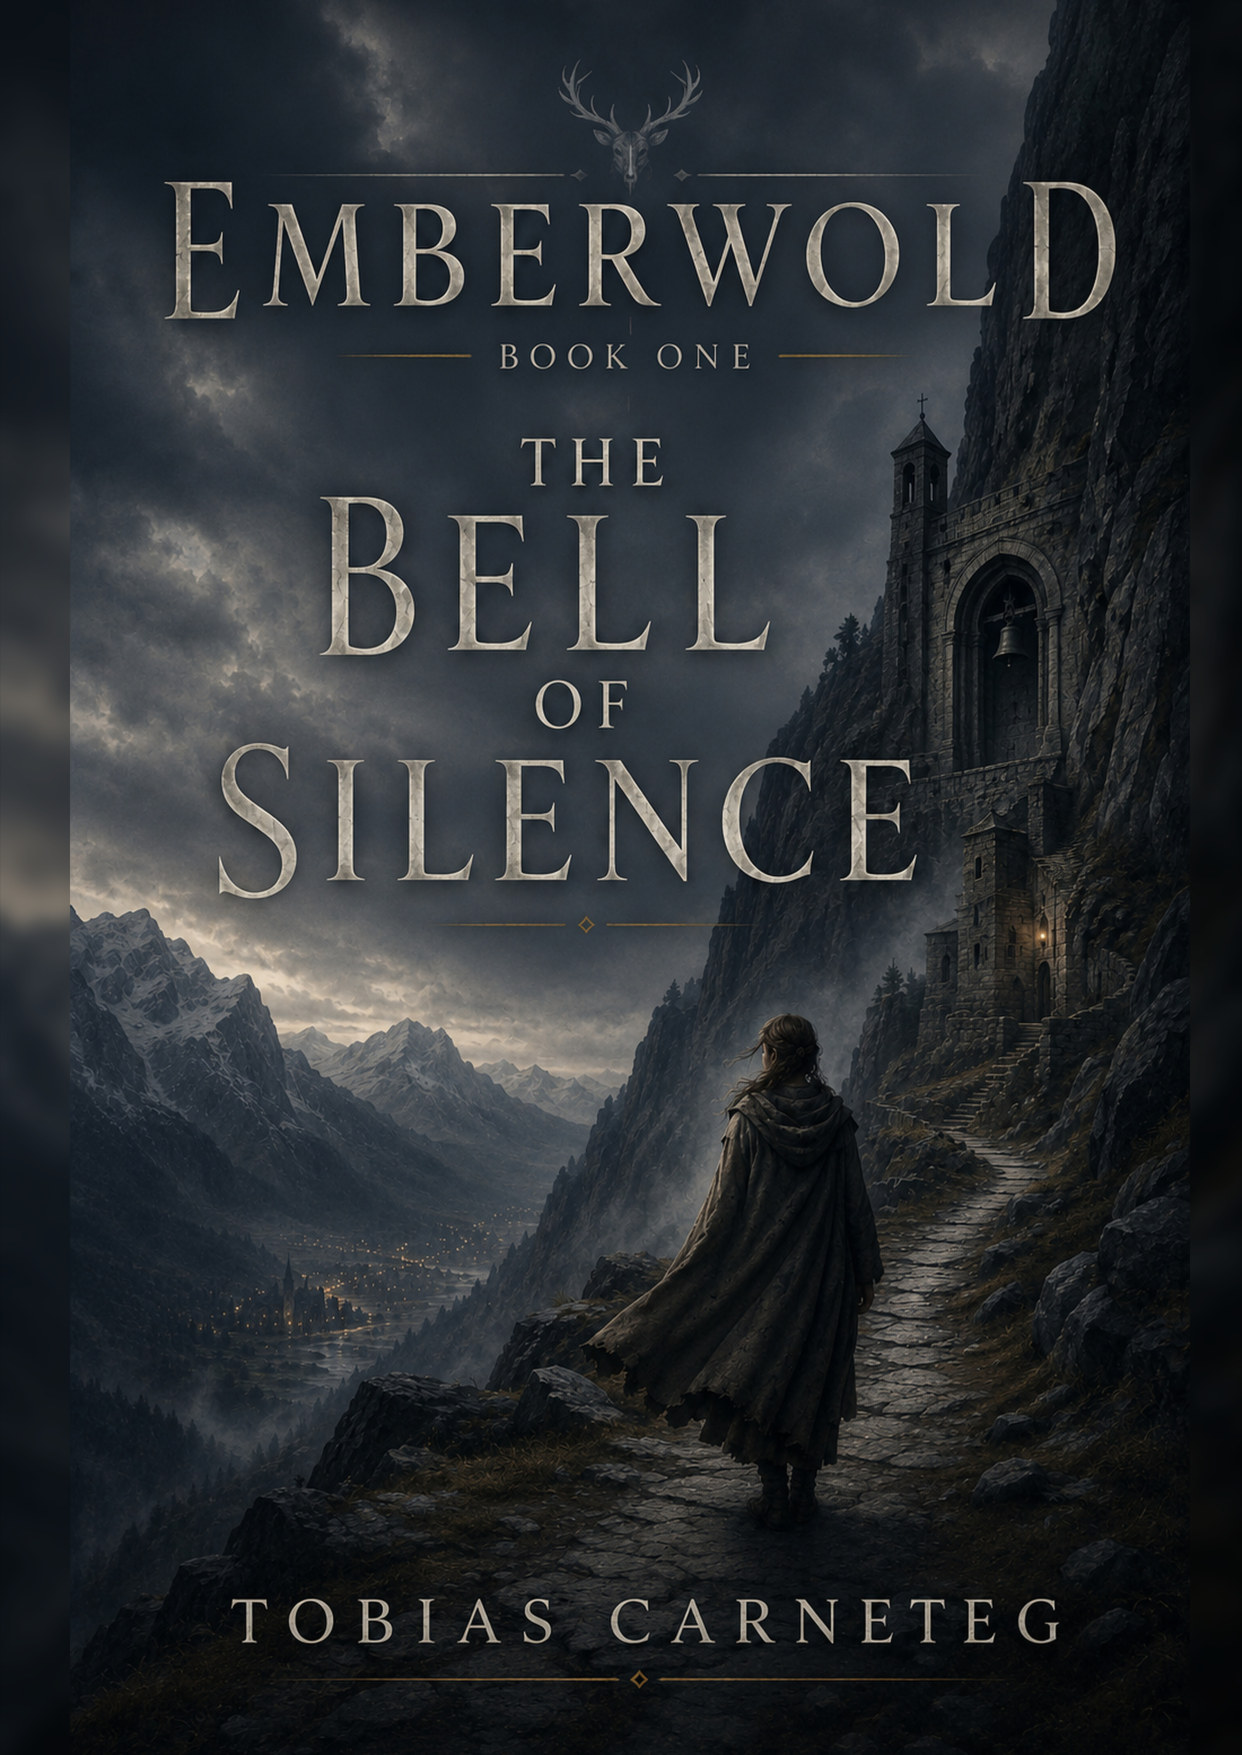
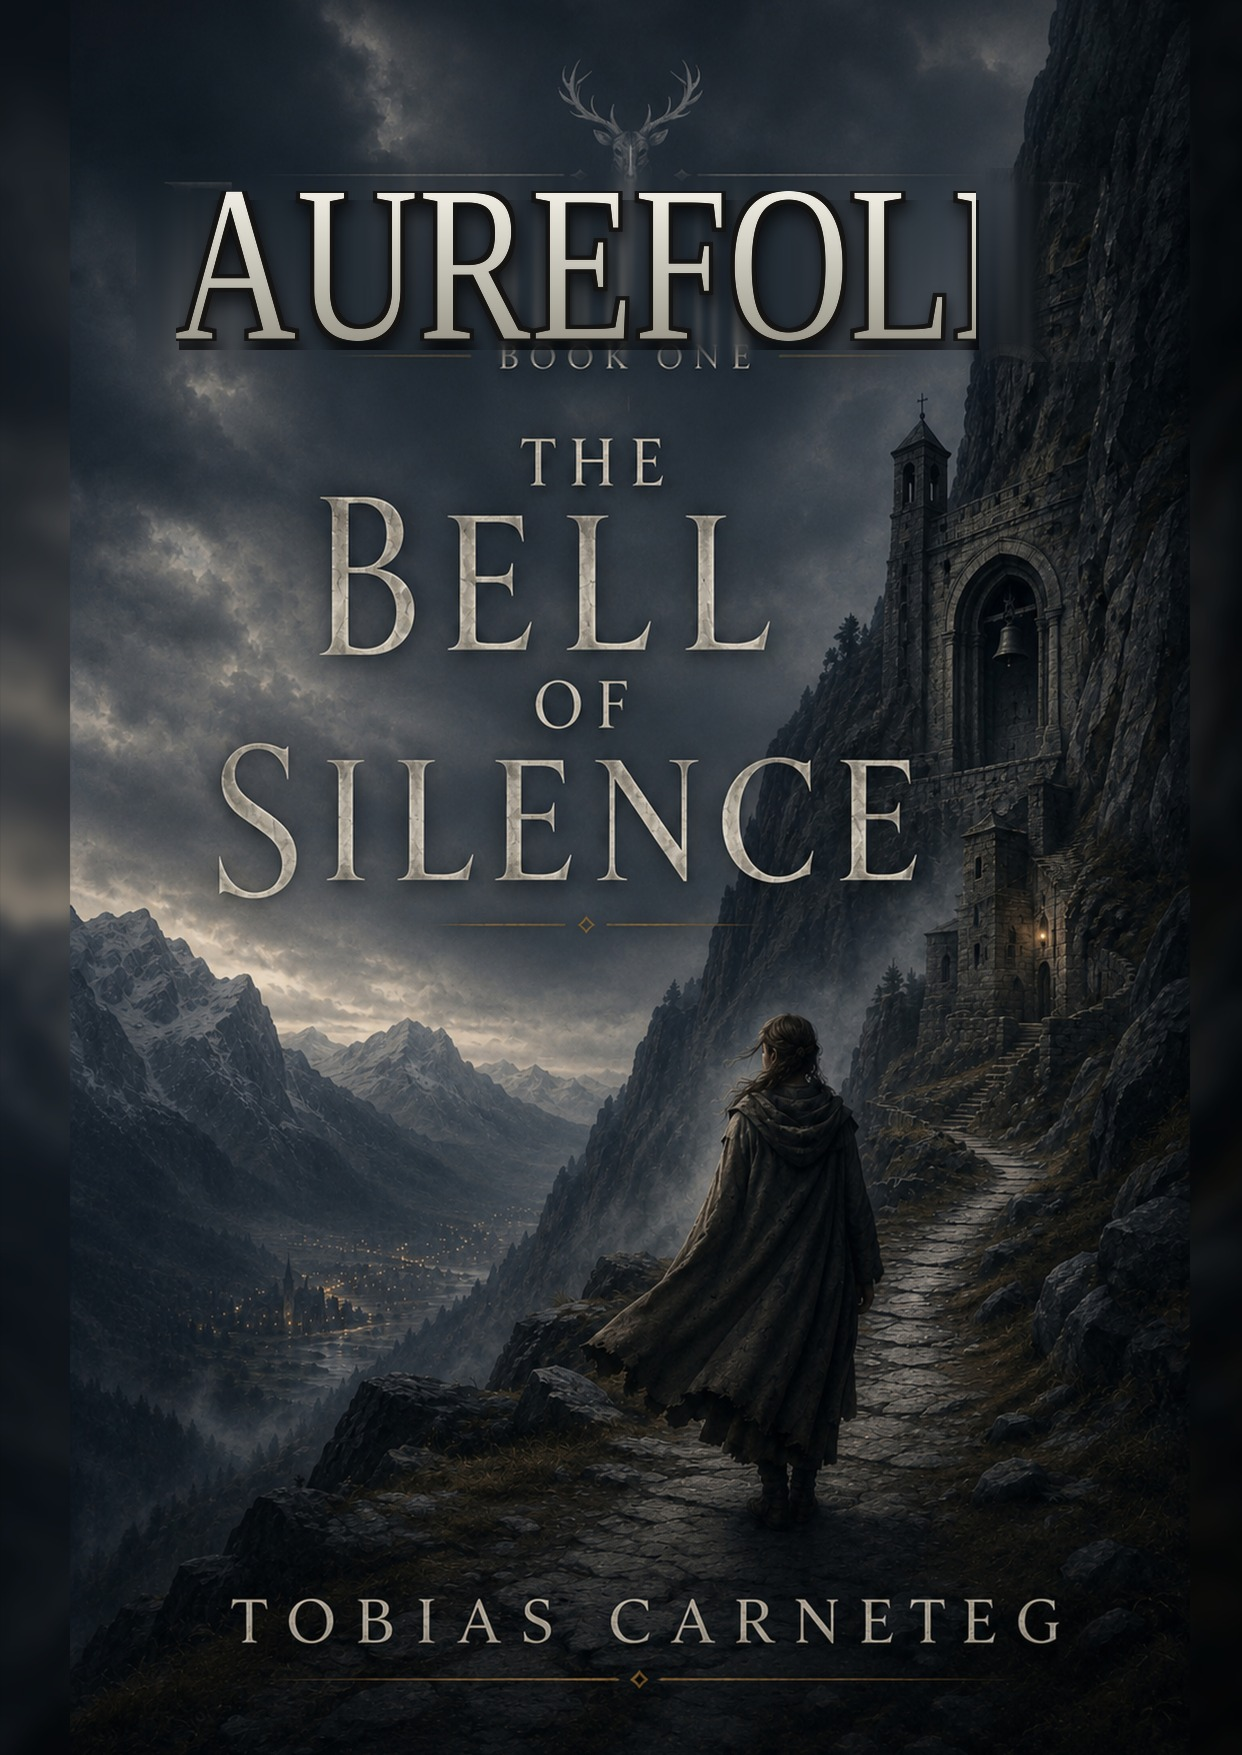
Cover: interim raster swap of the EMBERWOLD wordmark to AUREFOLD
The front cover's title is a bespoke engraved font over a cliff edge, so a
pixel-perfect match isn't possible here. This is an interim stand-in (plain
serif, metallic fill, reconstructed sky, cliff-side remnant cloned out) so the
cover reads AUREFOLD instead of the retired name. README flags it as interim;
a production cover should replace it from a new Aurefold wrap or the title font.

Claude-Session: https://claude.ai/code/session_01BUy1m7jZ1cEGwRwFGxkDAd

Changed region(s): [[0.1224, 0.0923, 0.9179, 0.2154]]

diff --git a/README.md b/README.md
@@ -108,10 +108,11 @@ The **back cover** is intentionally not on the site yet: its blurb states that
 "the voice that guided Sela … only points east," which the v27.0 locks forbid
 (the voice is never verified). It goes up once that copy is revised.
 
-> **Rename note:** the current cover art still carries the old **EMBERWOLD**
-> wordmark in the artwork itself (it cannot be text-edited). Per author choice
-> it stays in place until a new **Aurefold** full-wrap is provided, then the
-> front panel is re-extracted and swapped.
+> **Rename note:** the cover's **EMBERWOLD** wordmark has been raster-edited to
+> **AUREFOLD** as an *interim* — the original title is a bespoke engraved font
+> that can't be matched pixel-for-pixel here, so the stand-in is a plain serif.
+> Replace with a production cover: send a new Aurefold full-wrap (or the title
+> font) and the front panel is re-rendered properly.
 
 ## The chart plate
 
